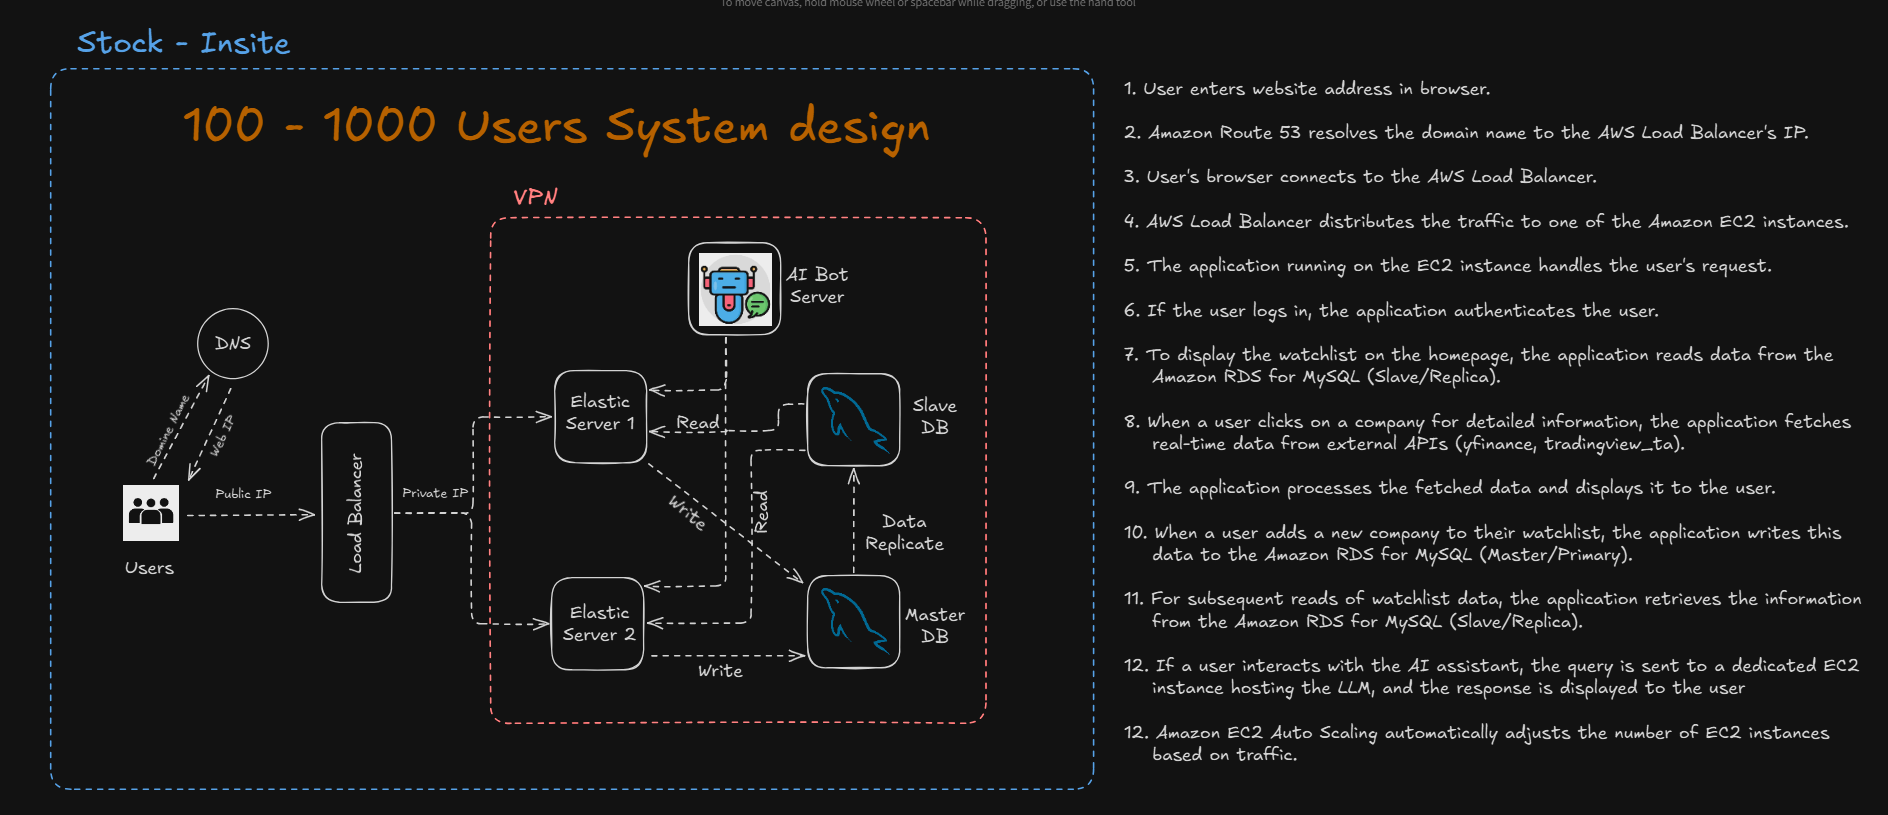
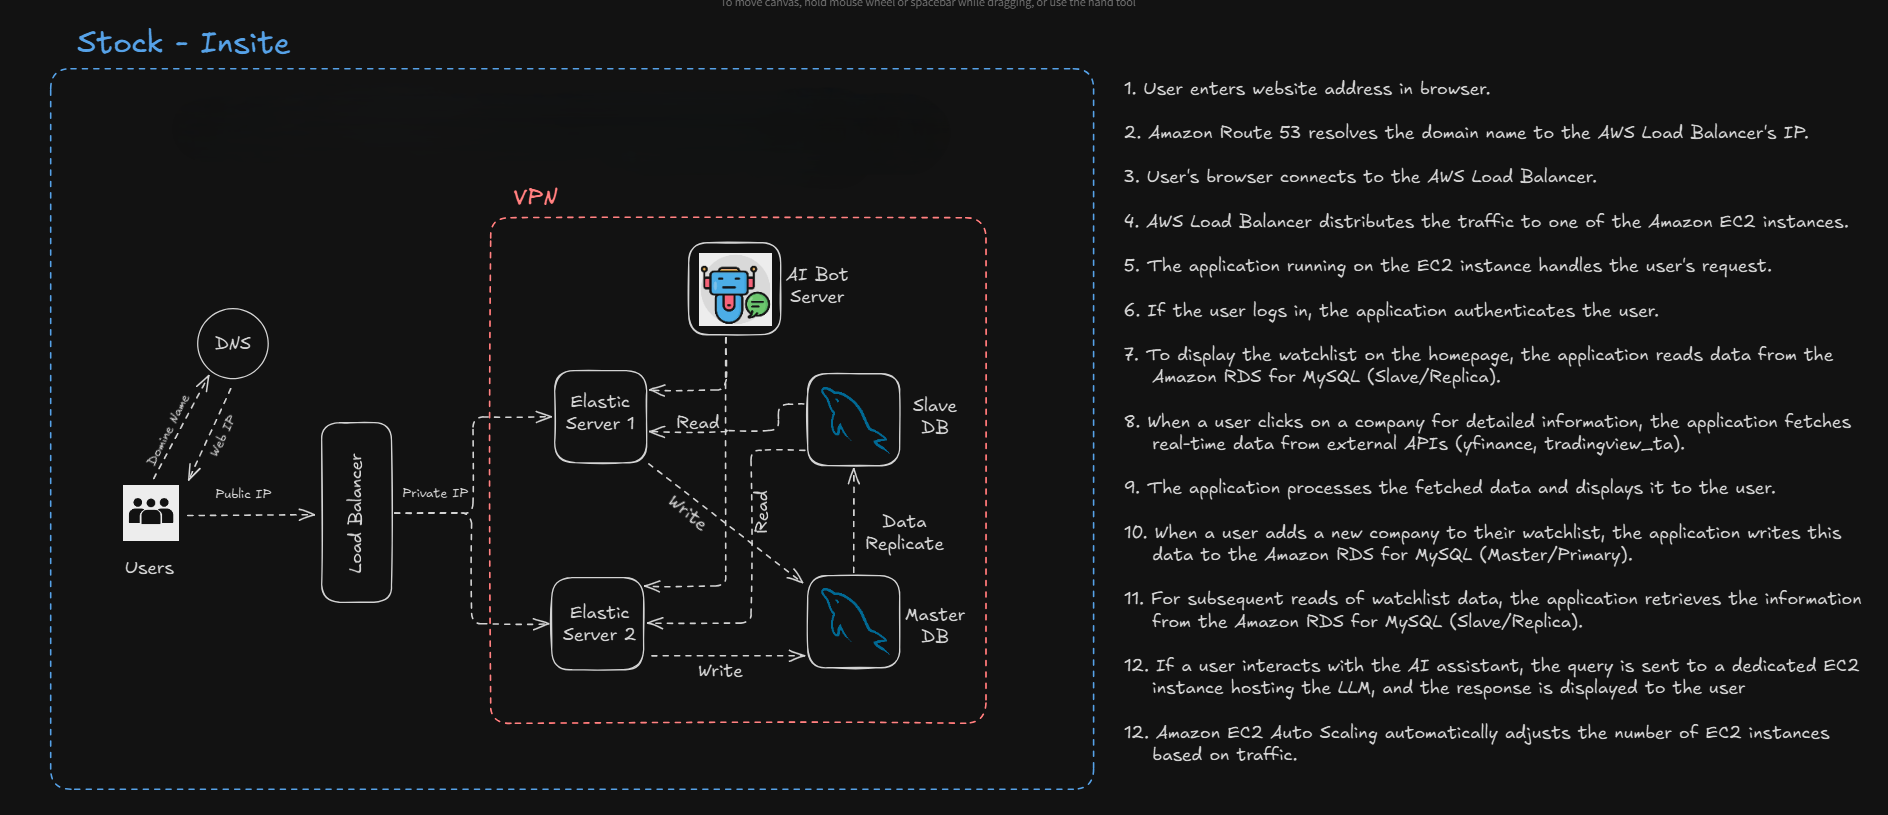
did some changes to the readme files

Changed region(s): [[0.0938, 0.1227, 0.5, 0.184]]

diff --git a/README.md b/README.md
@@ -19,19 +19,19 @@ A comprehensive web application for managing a demat account and performing stoc
 git clone https://github.com/Aravind8967/stockinsite.git
 cd stockinsite
 
-pip install --no-cache-dir -r requirements.txt
+# Start the docker desktop
 
-# To start the project 
+docker-compose up -d --build
 
-python wsig.py
+docker-copose up -d
+
+docker-copose down
 
 ```
 
 # System design Images
 
-![system_design1](image/README/system_design1.png)
-
-![system_design2](image/README/system_design2.png)
+![alt text](image/README/system_design1.png)
 
 # Project Images
 
